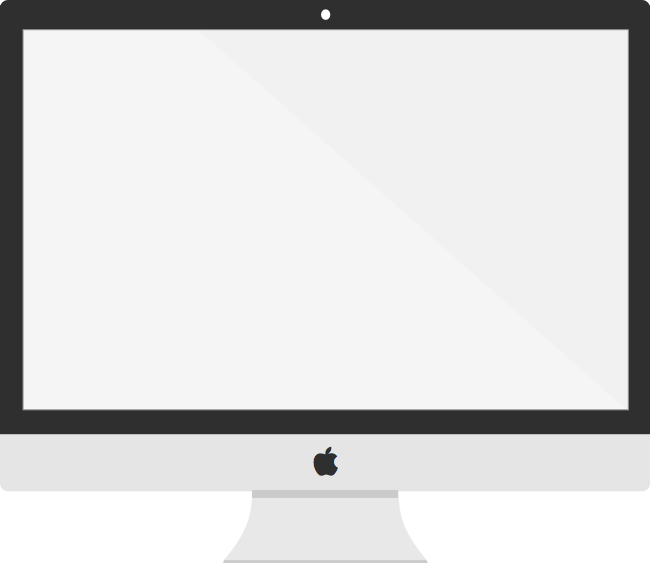
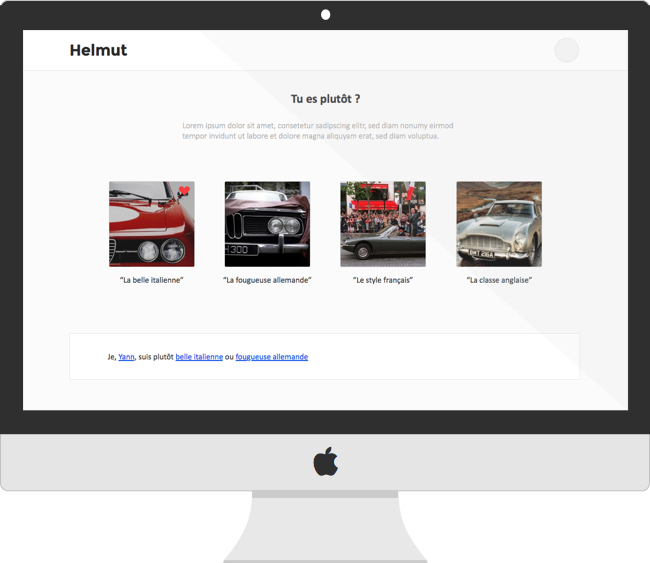
[Version 15.02] Text validé, Integration mail Helmut, Integration visuel imac

diff --git a/index.html b/index.html
@@ -86,6 +86,18 @@
 				</div>
 			</div>
 		</section>
+
+		<section class="imac">
+			<div class="container">
+				<div class="row">
+						<div class="col-md-7">
+							<div class="device-imac">
+							</div>	
+						</div>
+				</div>	
+			</div>	
+		</section>	
+
 		<section class="features-list" id="features">
 			<div class="container">
 				<div class="row">
@@ -196,16 +208,17 @@
 		<footer>
 			<div class="container">
 				<div class="row">
-					<div class="col-md-9">
+					<div class="col-md-7">
 						<h1 class="footer-logo">
 						<img src="img/logo-blue.png" alt="Footer Logo Blue">
 						</h1>
-						<p>© Helmut 2015 </p>
+						<p>© Helmut SA 2015 - Tous droits réservés</p>
 					</div>
-					<div class="col-md-3">
+					<div class="col-md-5">
 						<ul class="footer-nav">
-							<li><a href="#">Blog</a></li>
-							<li><a href="#">S'inscrire</a></li>
+							<li><a href="mailto:garagehelmutbonjour@gmail.com">Contacter Helmut</a></li>
+							<li><a href="#">A propos</a></li>
+							<li><a href="http://eepurl.com/bej3gT">S'inscrire</a></li>
 						</ul>
 					</div>
 				</div>
@@ -214,12 +227,8 @@
 		<div class="overlay overlay-boxify">
 			<nav>
 				<ul>
-					<li><a href="#about"><i class="fa fa-heart"></i>A propos</a></li>
-					<li><a href="#features"><i class="fa fa-flash"></i>Modèle</a></li>
-				</ul>
-				<ul>
-					<li><a href="#screenshots"><i class="fa fa-desktop"></i>Blog</a></li>
-					<li><a href="#download"><i class="fa fa-download"></i>S'inscrire</a></li>
+					<li><a href="#screenshots">A propos</a></li>
+					<li><a href="http://eepurl.com/bej3gT">S'inscrire</a></li>
 				</ul>
 			</nav>
 		</div>

diff --git a/css/styles.css b/css/styles.css
@@ -648,8 +648,8 @@ section.video h1 {
     font-size: 20px;
 }
 section.video {
-    padding: 100px 0;
-    background-color: #ebf0f3;
+    padding: 100px 100px;
+    background-color: #fff;
 }
 section.video a {
     color: #323a45
@@ -799,6 +799,22 @@ blockquote .logo-quote {
     margin: 0 0 0 90px;
 }
 
+/* ==========================================================================
+imac
+========================================================================== */
+.imac {
+    background: #ebf0f3 no-repeat center center fixed;
+    background-size: cover;
+    height: 700px;
+}
+
+.device-imac {
+    position: relative;
+    background: url('../img/imac.png') no-repeat center center;
+    min-height: 700px;
+    width: 650px;
+    margin: 0px 0px 0px 40%;
+}
 
 
 /* ==========================================================================
